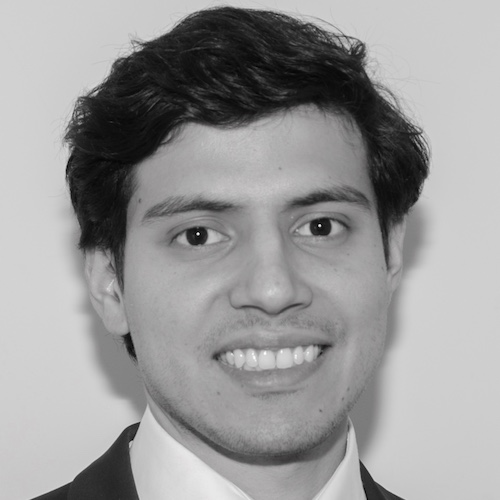
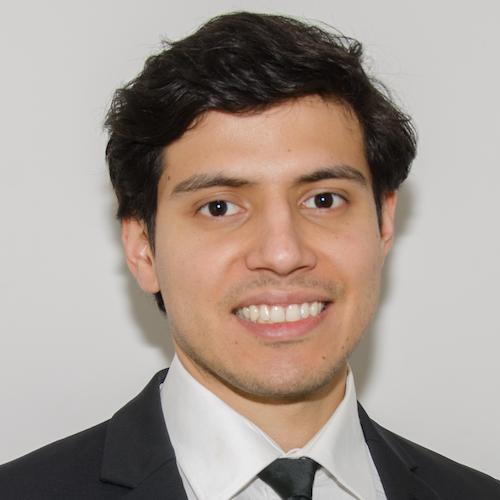
Update photo and description for Cristian Perez

diff --git a/_communaute/2019-01-01-cristian-perez.md b/_communaute/2019-01-01-cristian-perez.md
@@ -14,12 +14,13 @@ images:
 ---
 
 "Diplomé d'un doctorat en chimie physique à l'UPMC, j'ai fait de la
-programmation en parallele en utilisant des GPU sur le langage CUDA et aussi
-mes premiers pas en analyse des données.  Puis j'ai travaillé comme Data
-Scientist à l'agence Kernix, où j'ai developpé de produits au tour de la data
-en utilisant des technologies de machile learning et deep learning pour des
-clients sur des secteurs varies.  Pendant mon temps libre je participe à
-l'association City AI pour mettre en contact des acteurs de l'AI et je
-participe aussi à l'association GlobalSWAI.co comme expert techinque.
-Maintenant Entrepreneur d'intérêt generale, je suis bien motivé pour fiabiliser
-les contraventions à partir de la reconnaissance d'image!"
+programmation en parallèle en utilisant des GPU sur le langage CUDA et j’ai
+fait mes premiers pas en analyse des données. Ensuite j'ai travaillé en tant
+que Data Scientist à l'agence Kernix, où j'ai développé de produits autour de
+la data en utilisant du machine learning et du deep learning pour des
+différents clients sur des secteurs variés. Dans mon temps libre je fais partie
+l'association City AI qui fédère une communauté internationale autour de l'IA
+et je suis bénévole également pour le Global Startup Weekend AI, un hackathon
+qui souhaite soutenir des startups IA autour du monde. Maintenant Entrepreneur
+d'intérêt générale, je fais partie du challenge Flash AI et je suis bien motivé
+pour fiabiliser les contraventions à partir de la reconnaissance d'image !"

diff --git a/_defis/2019-01-01-iaflash.md b/_defis/2019-01-01-iaflash.md
@@ -10,8 +10,8 @@ type: Data science
 eigs:
   - nom: Victor Journé
     site: /communaute/2019/victor-journe.html
-  - nom: 
-    site: 
+  - nom: Cristian Perez Brokate
+    site: /communaute/2019/cristian-perez.html
 mentors:
   - nom: Daniel Ansellem
     site: /communaute/2018/daniel-ansellem.html
